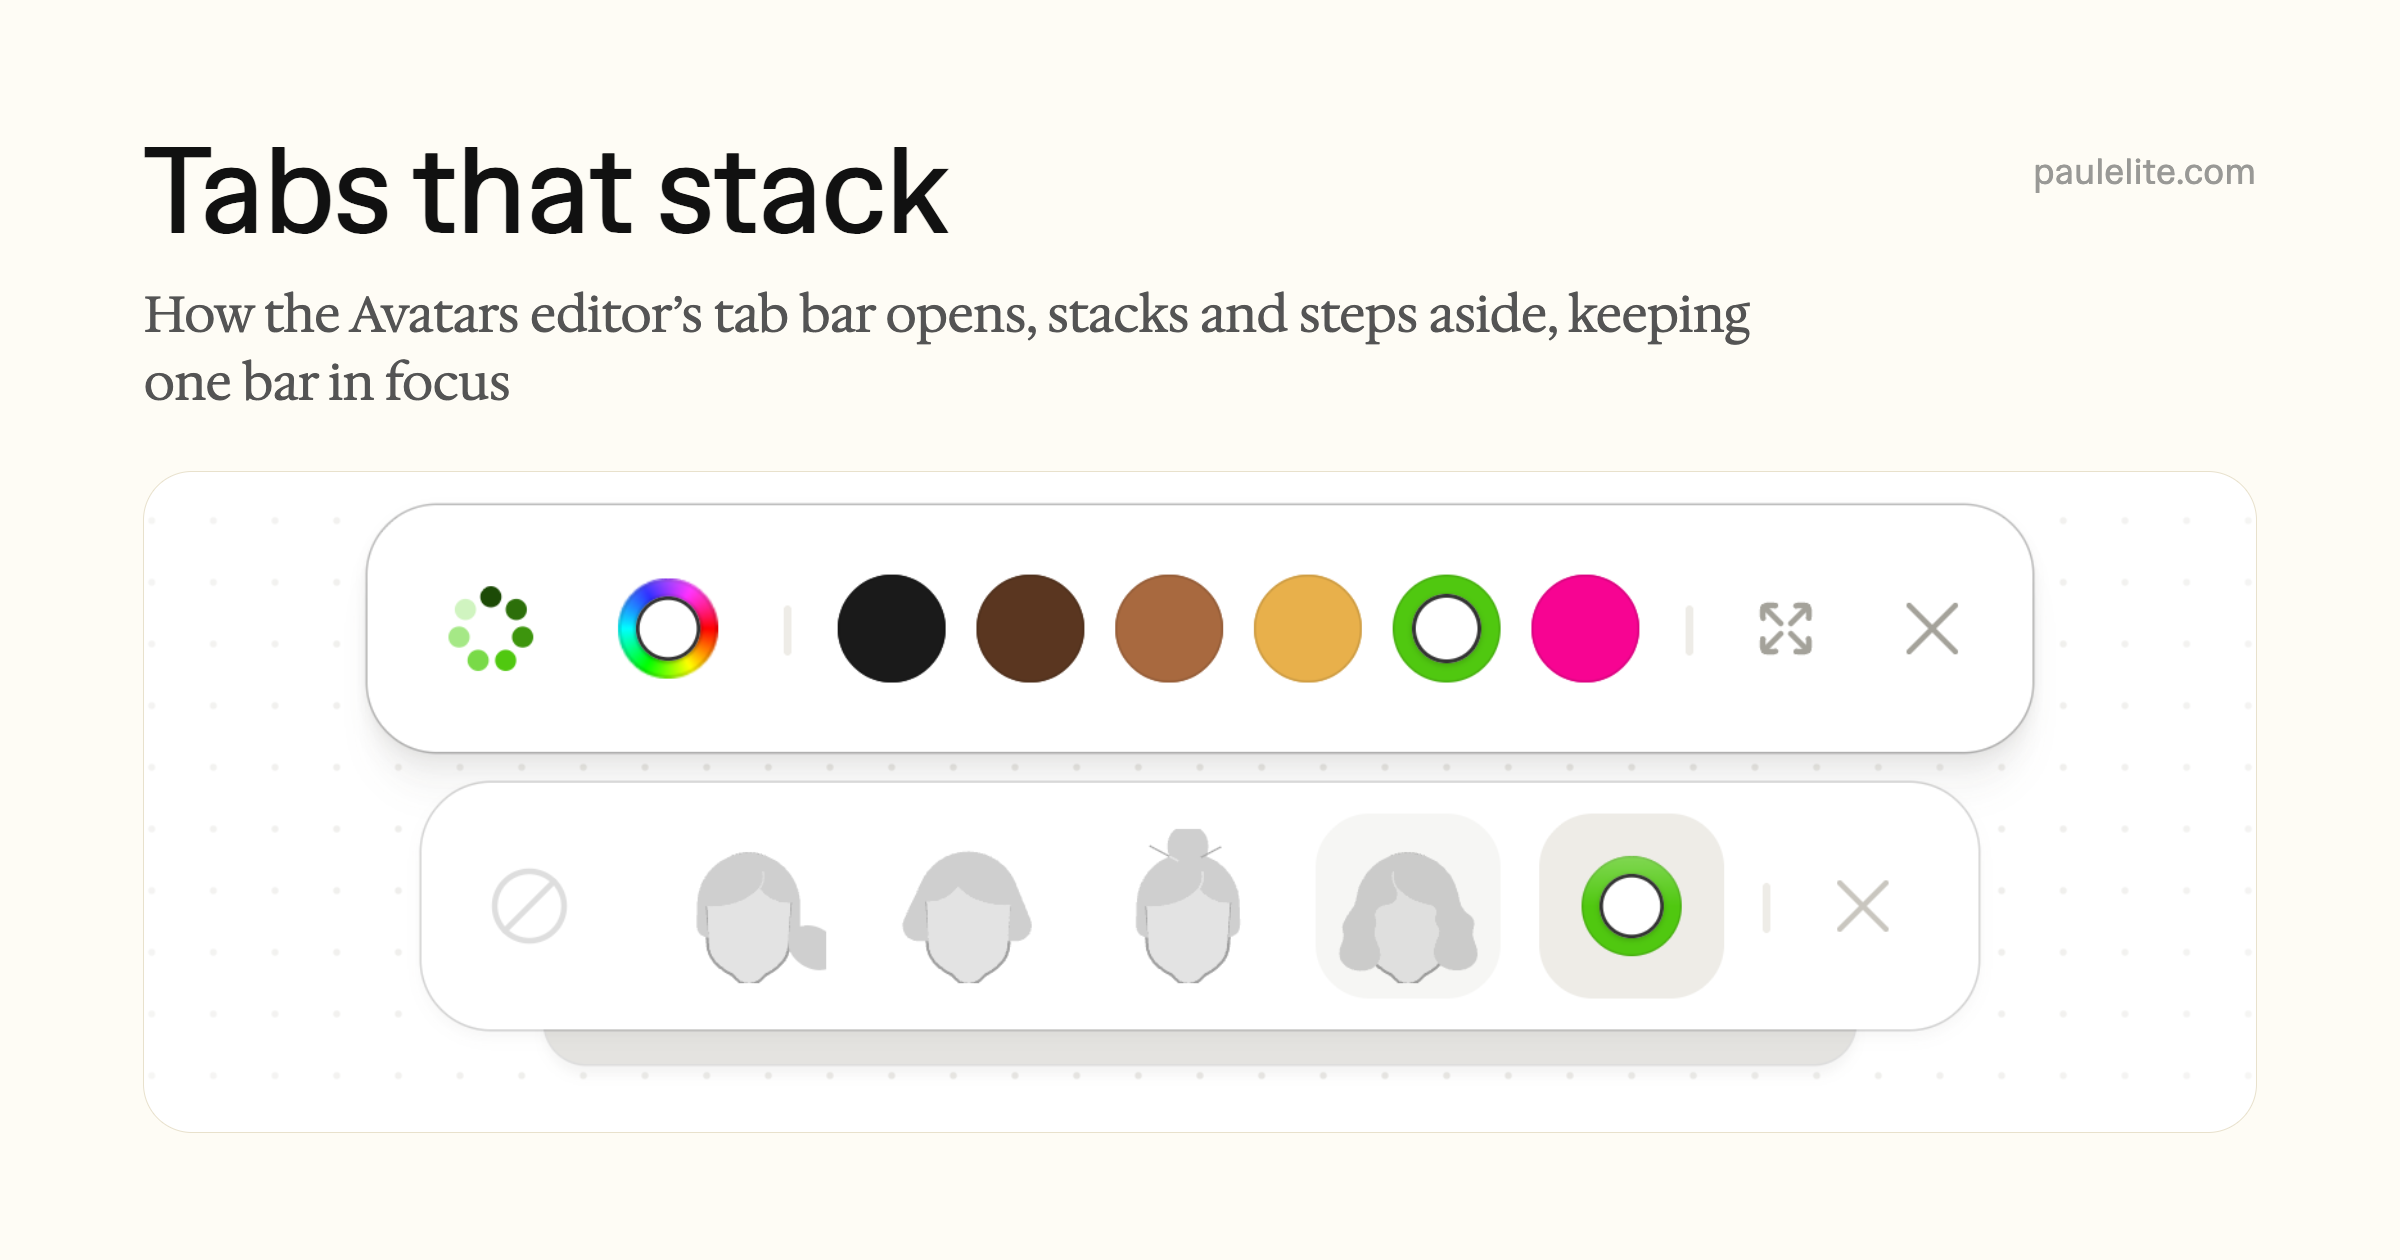
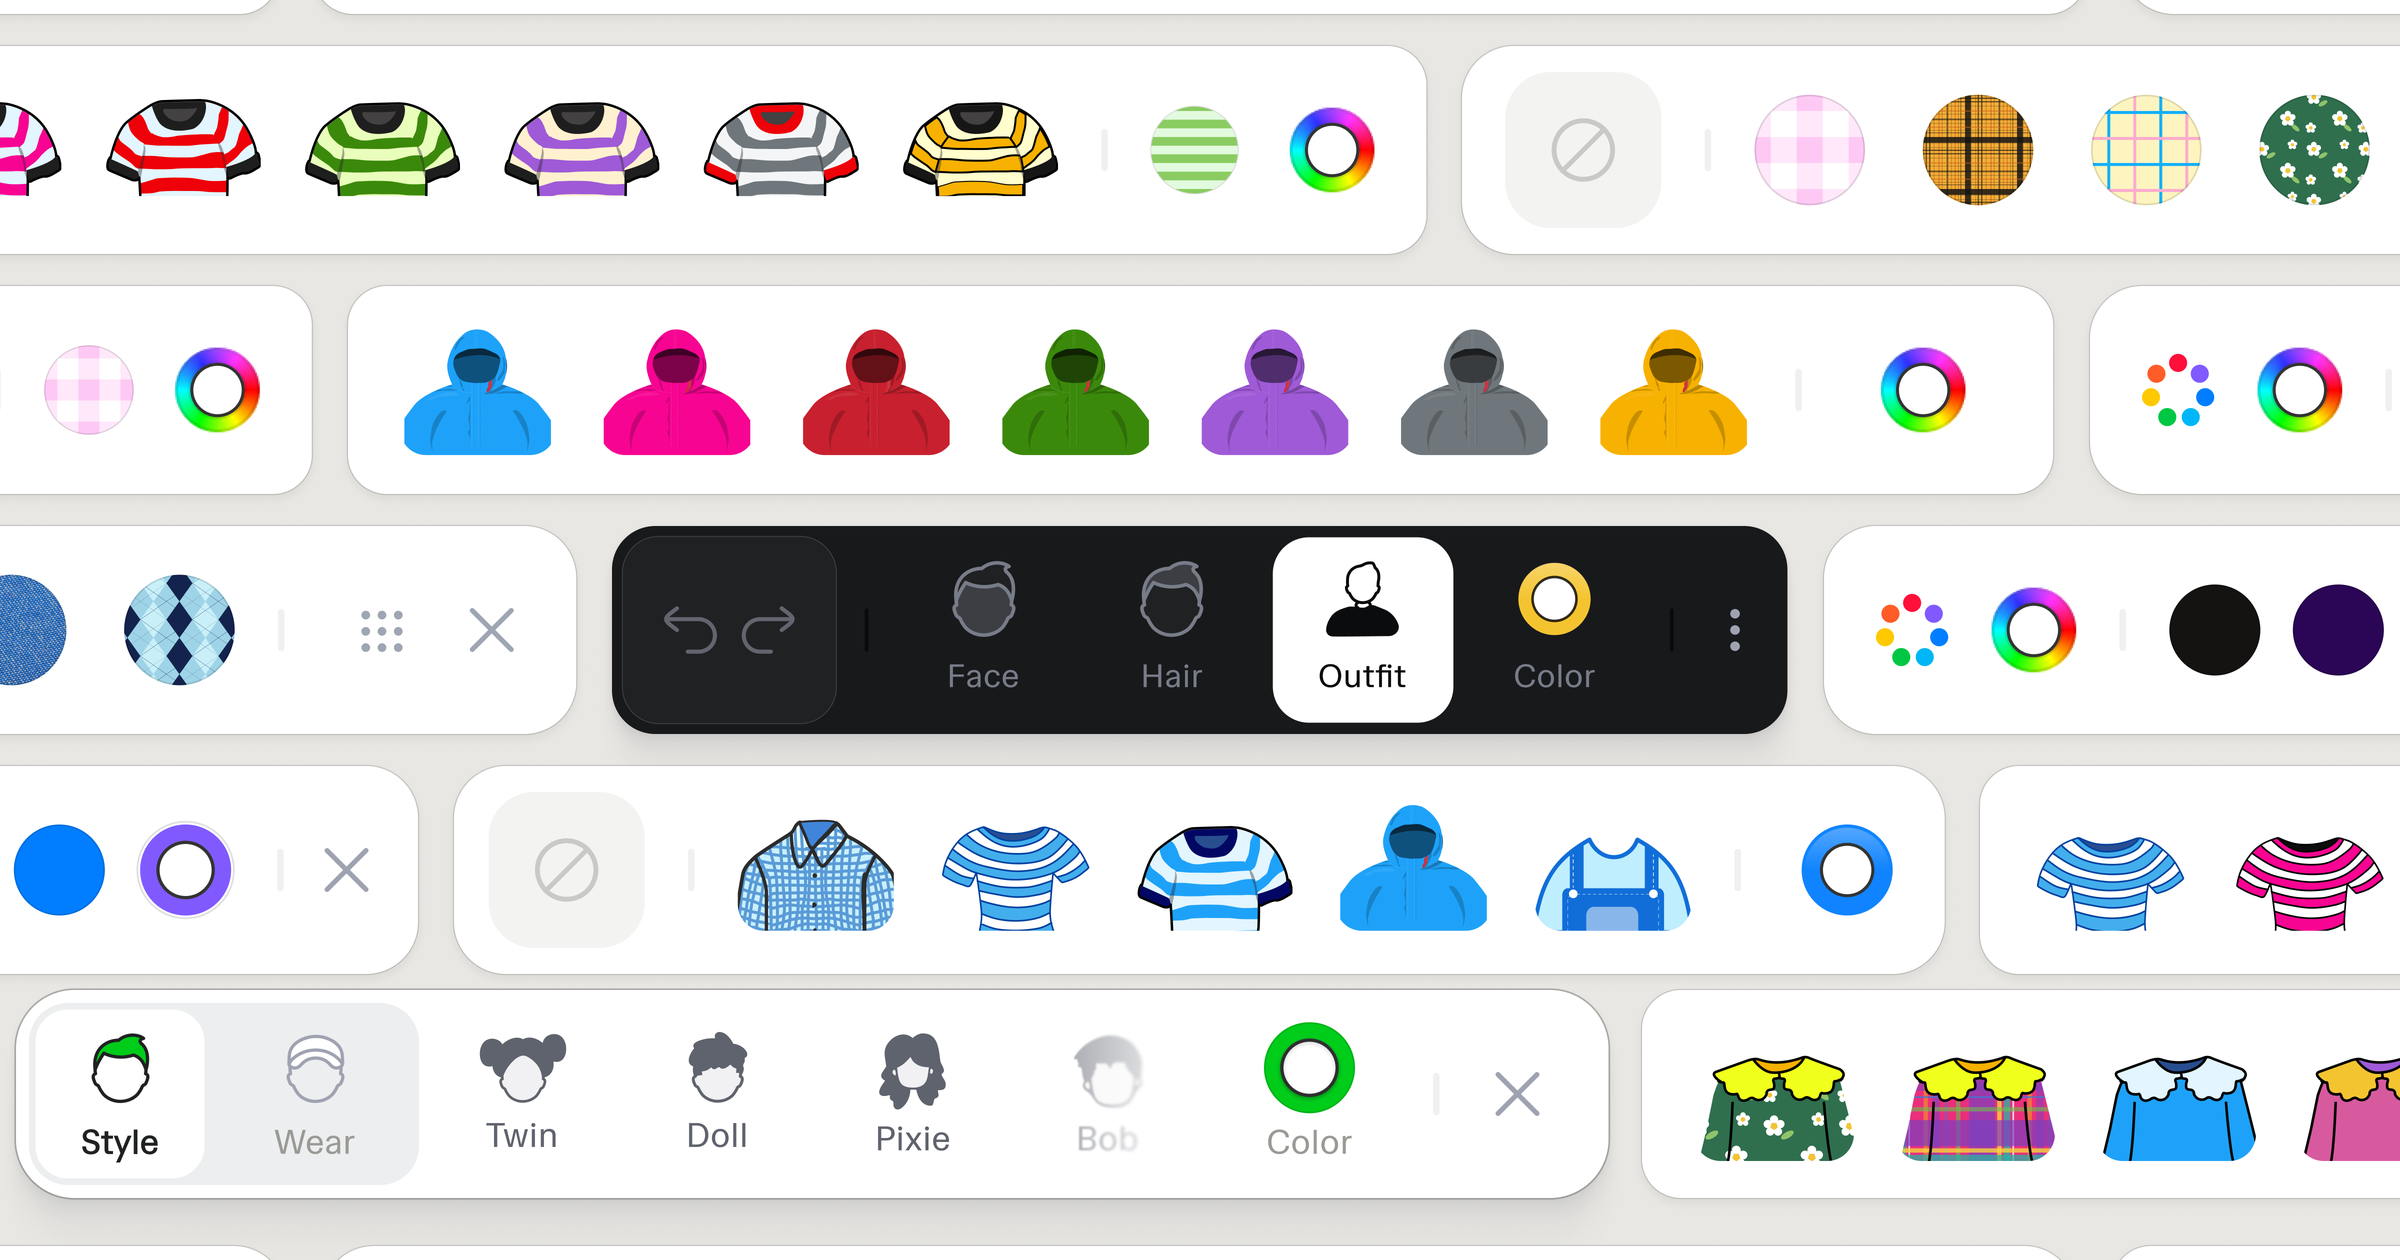
Tabs that stack: the share image is the user's collage of their own bars, the black bar at its centre

diff --git a/app/(site)/projects/[slug]/page.tsx b/app/(site)/projects/[slug]/page.tsx
@@ -17,7 +17,7 @@ const CARD_ONLY = 'search-interfaces';
 // Share images made for one article (public/og/<slug>.png, 2400×1260 = 1200×630 at 2×). An article
 // without one keeps the site's own
 const OG: Record<string, string> = {
-  'tabs-that-stack': '/og/tabs-that-stack.png',
+  'tabs-that-stack': '/og/tabs-that-stack.png?v=2', // v2: the user's collage from Figma (2026-11-27)
 };
 const SITE = 'https://paulelite.com';
 
